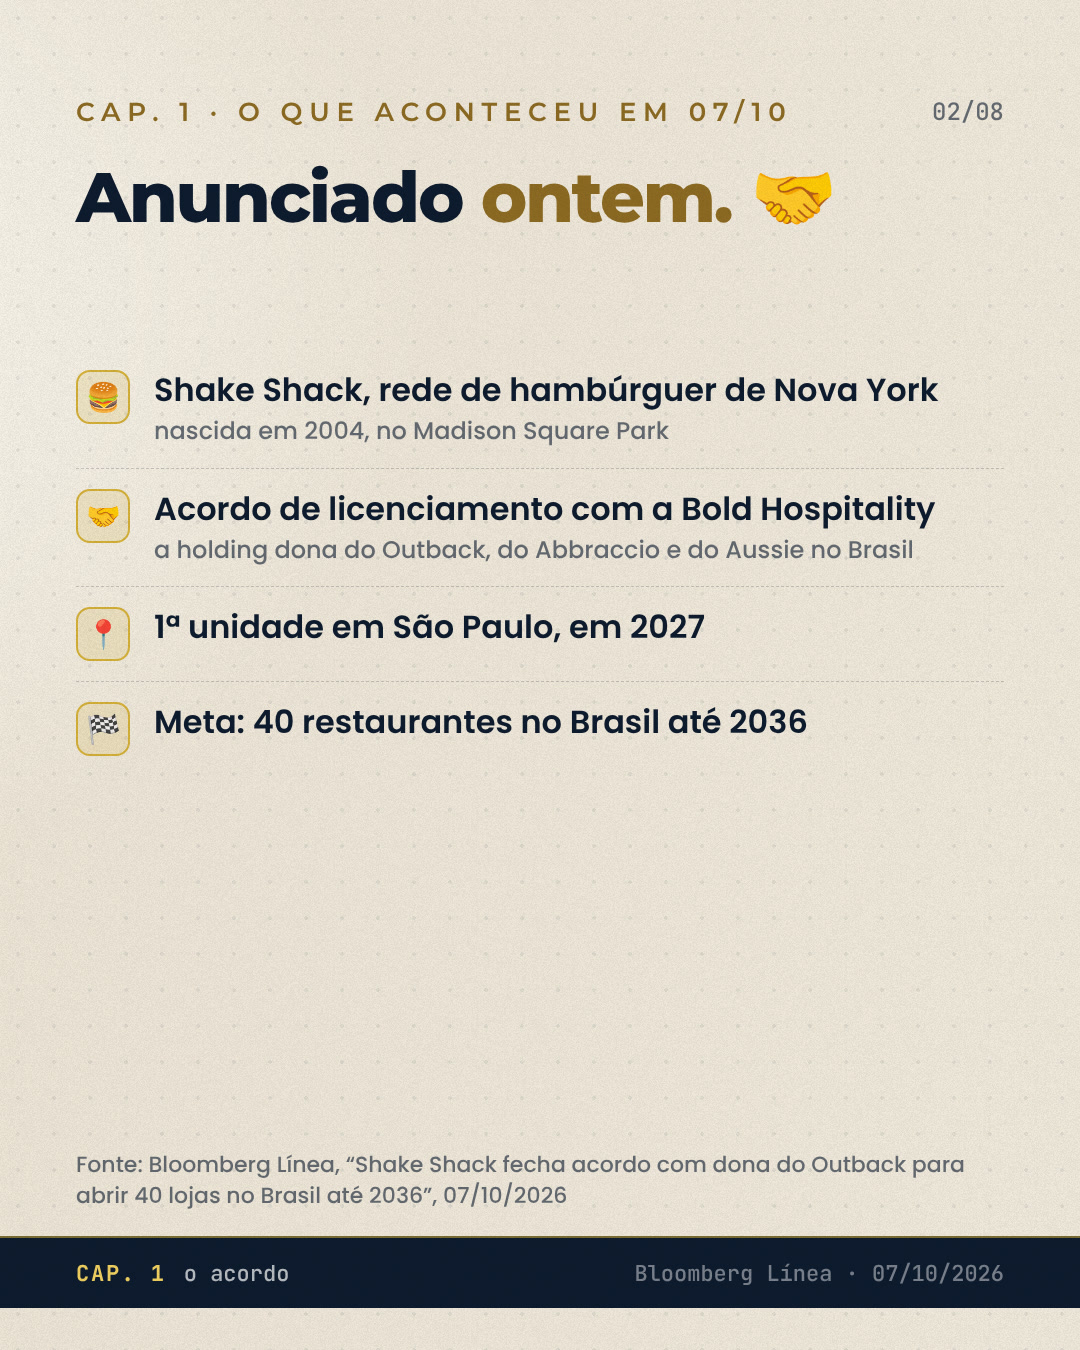
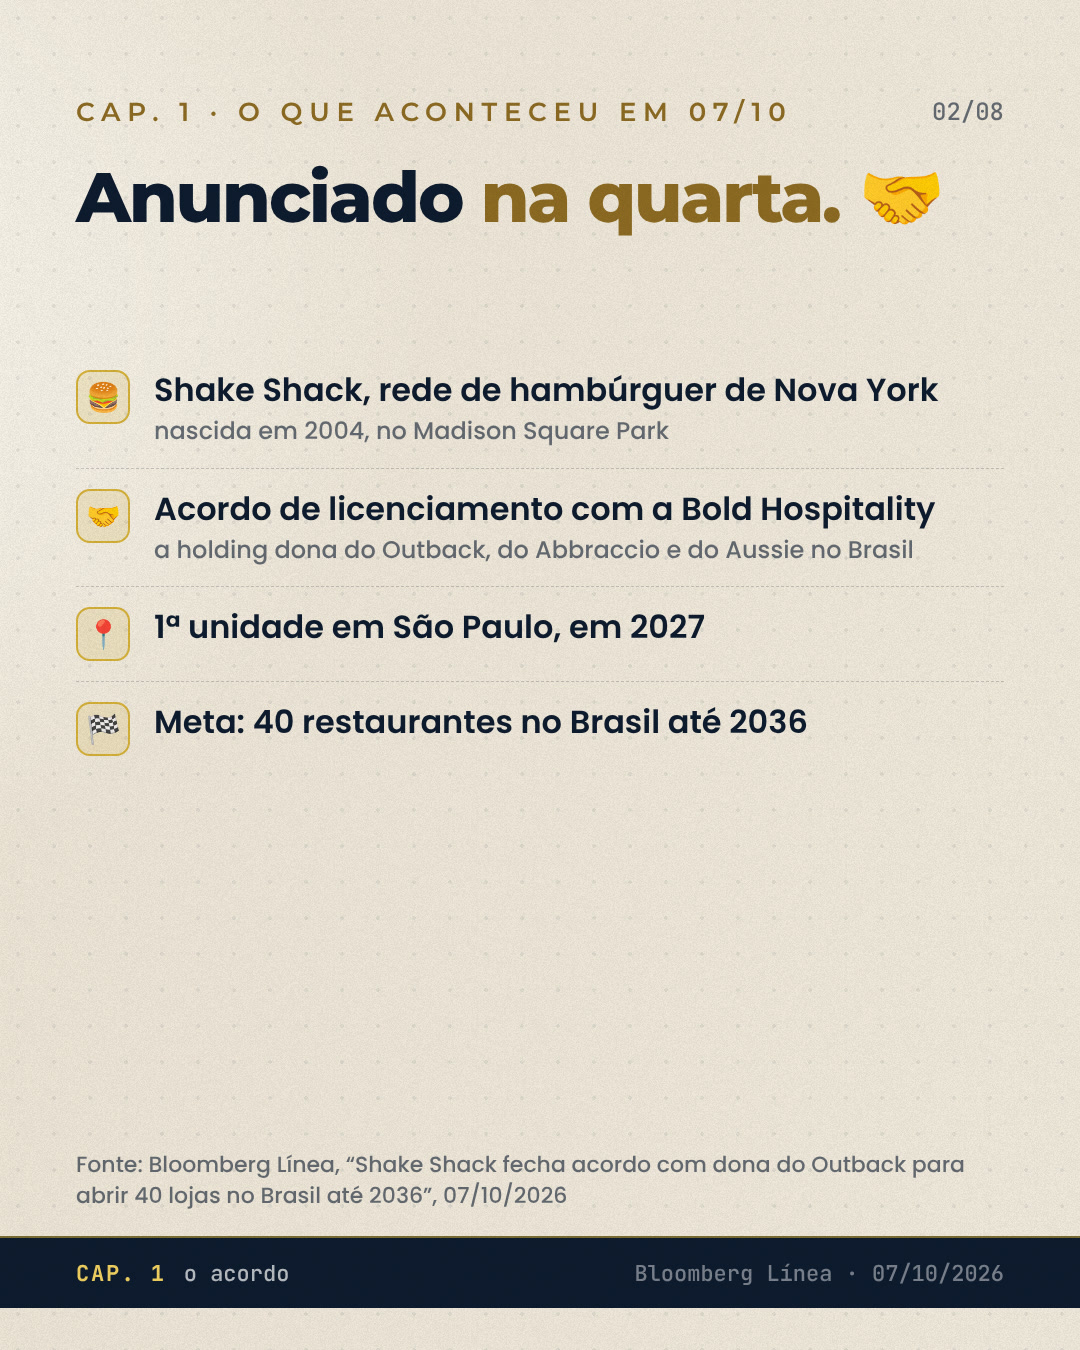
Instagram: Deu o que falar #03 card 2 (reprogramado para 11/10)
Claude-Session: https://claude.ai/code/session_01EPnunwykkES69MtQMSxnpm

Changed region(s): [[0.4583, 0.1244, 0.8861, 0.1867]]

diff --git a/INDICE.md b/INDICE.md
@@ -30,7 +30,7 @@ Gerado por `tools/social/sincronizar_midia.py` (repositório `amuncios-venda`). 
 | 2026-10-07-18h-black-friday-ja-comecou | Carrossel | 8 | Assunto do momento: "A Black Friday já começou" (temporada de ofertas) | 🟨 aguardando ok | [instagram/2026-10/carrosseis/2026-10-07-18h-black-friday-ja-comecou](instagram/2026-10/carrosseis/2026-10-07-18h-black-friday-ja-comecou/folha.png) |
 | 2026-10-08-10h-impulsionar-x-gerenciador | Carrossel | 8 | Tráfego pago: "Impulsionar ou Gerenciador?" | ✅ agendado | [instagram/2026-10/carrosseis/2026-10-08-10h-impulsionar-x-gerenciador](instagram/2026-10/carrosseis/2026-10-08-10h-impulsionar-x-gerenciador/folha.png) |
 | 2026-10-08-12h-reel-sistemas-nao-conversam | Reel | 1 | Reel R3: "Seus sistemas não conversam" | ✅ agendado | [instagram/2026-10/reels/2026-10-08-12h-reel-sistemas-nao-conversam](instagram/2026-10/reels/2026-10-08-12h-reel-sistemas-nao-conversam/reel.mp4) |
-| 2026-10-08-18h-hype-shake-shack | Carrossel | 8 | Deu o que falar #03: Shake Shack + dona do Outback, 40 lojas no Brasil | 🟨 aguardando ok | [instagram/2026-10/carrosseis/2026-10-08-18h-hype-shake-shack](instagram/2026-10/carrosseis/2026-10-08-18h-hype-shake-shack/folha.png) |
+| 2026-10-08-18h-hype-shake-shack | Carrossel | 8 | Deu o que falar #03: Shake Shack + dona do Outback, 40 lojas no Brasil | 📣 publicado | [instagram/2026-10/carrosseis/2026-10-08-18h-hype-shake-shack](instagram/2026-10/carrosseis/2026-10-08-18h-hype-shake-shack/folha.png) |
 | 2026-10-09-10h-dia-das-criancas-loja | Carrossel | 8 | E-commerce: "A semana decisiva é agora" | ✅ agendado | [instagram/2026-10/carrosseis/2026-10-09-10h-dia-das-criancas-loja](instagram/2026-10/carrosseis/2026-10-09-10h-dia-das-criancas-loja/folha.png) |
 | 2026-10-10-10h-mapear-processo-4-passos | Carrossel | 9 | Consultoria: "Mapeie seu processo em 4 passos" | ✅ agendado | [instagram/2026-10/carrosseis/2026-10-10-10h-mapear-processo-4-passos](instagram/2026-10/carrosseis/2026-10-10-10h-mapear-processo-4-passos/folha.png) |
 | 2026-10-10-12h-reel-google-concorrente | Reel | 1 | Reel R4: "Procurou você. Achou o concorrente." | ✅ agendado | [instagram/2026-10/reels/2026-10-10-12h-reel-google-concorrente](instagram/2026-10/reels/2026-10-10-12h-reel-google-concorrente/reel.mp4) |
